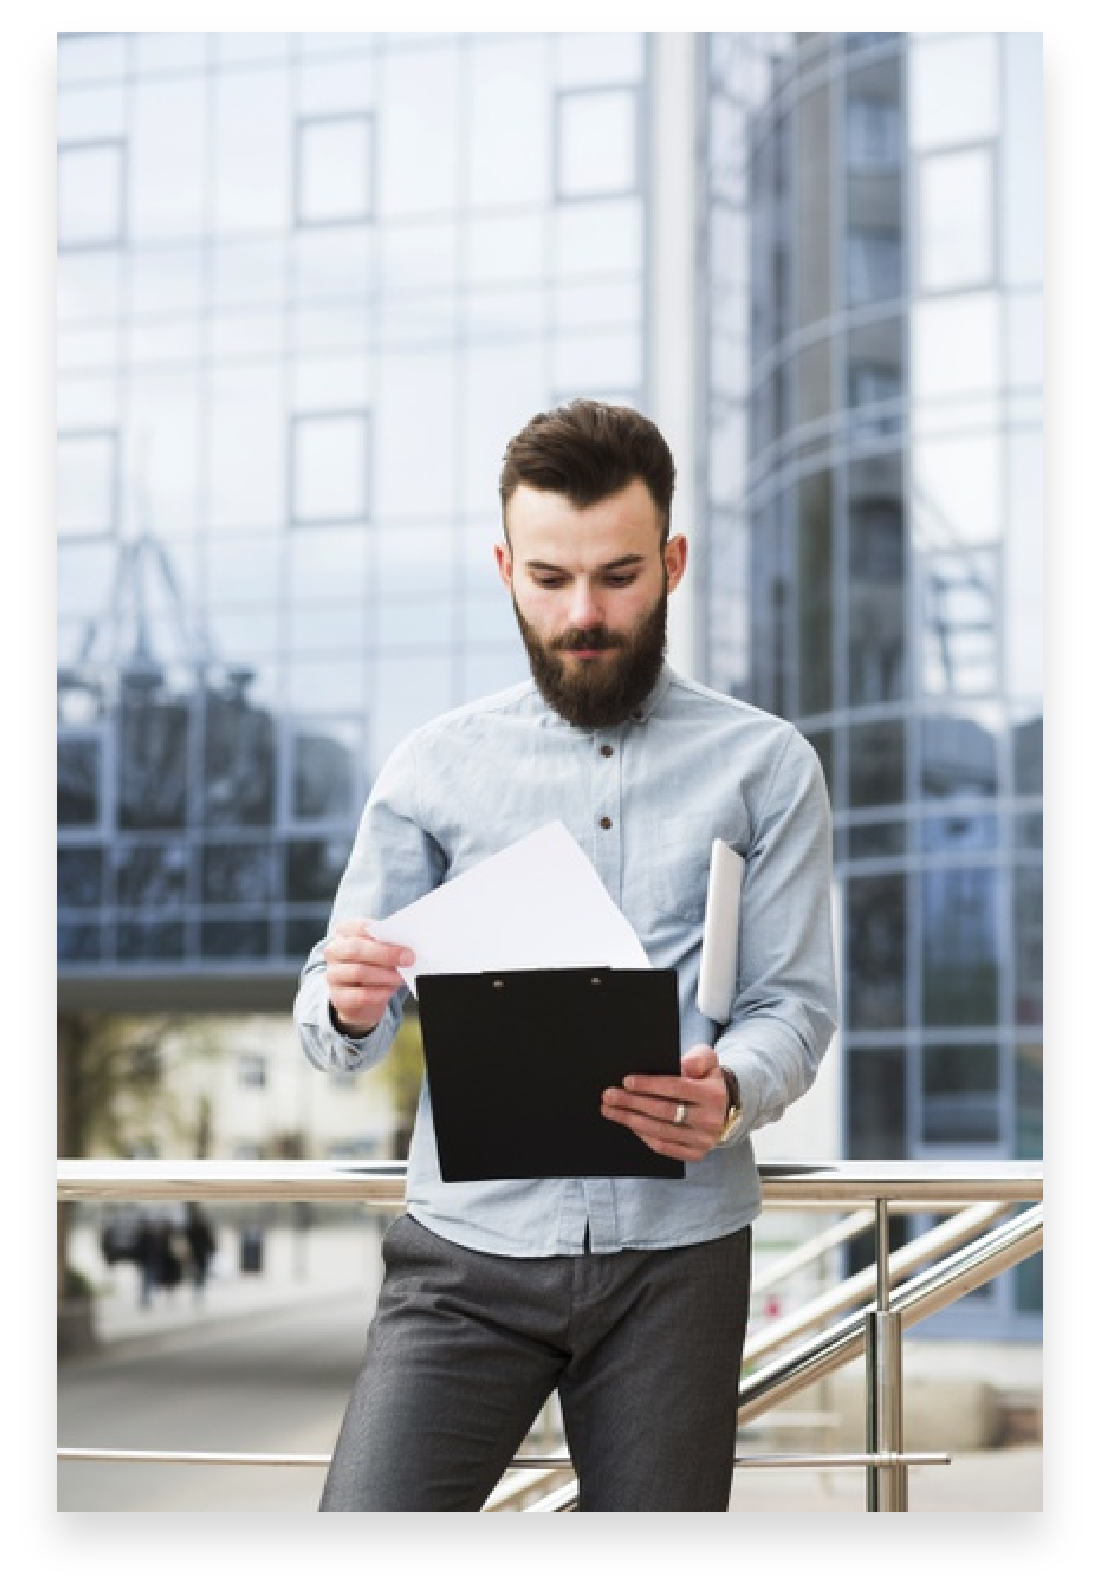
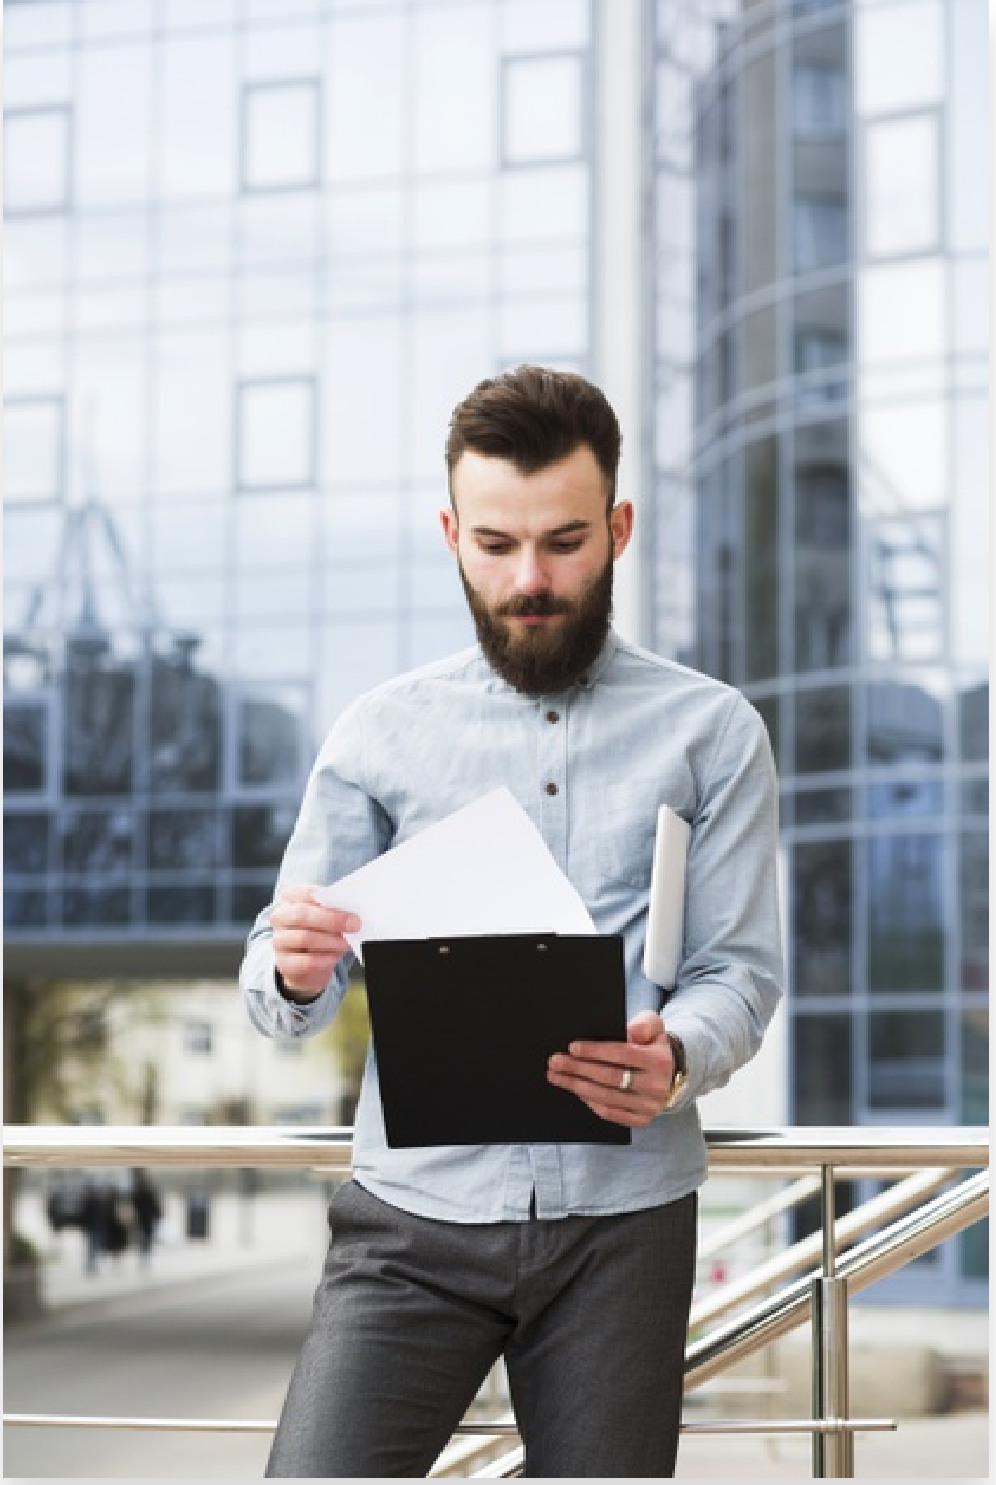
issues with image

diff --git a/src/Sections/Intro.css b/src/Sections/Intro.css
@@ -6,25 +6,30 @@
 
 .intro-col-1{
     display: grid;
-    grid-template-columns: 1fr 2fr;
+    grid-template-columns: 150px 2fr;
+    grid-template-rows: 100px 1fr;
 }
 
 .creative {
-    font-size: 198px;
+    font-size: 130px;
     font-family: Graphie, Georgia, 'Times New Roman', Times, serif;
     font-weight: bolder;
-    letter-spacing: -4.92px;
     color: #502EFF;
     text-shadow: 0px 3px 6px #00000029;
-    opacity: 0.04;
+    opacity: 0.06;
     transform: matrix(0, -1, 1, 0, 0, 0);
     grid-row-start: 2;
+    align-self: end;
+}
+
+.logo-group {
+    grid-column-start: 2;
+    align-self: center;
 }
 
 .logo {
     font: Bold 28px "Nexa";
     color: #000964;
-    grid-column-start: 2;
 }
 .x {
     background: #502EFF 0% 0% no-repeat padding-box;
@@ -34,14 +39,29 @@
 }
 
 .intro-text {
+    display: grid;
+    align-content: center;
     grid-column-start: 2;
     grid-row-start: 2;
 }
 .c-agency {
-    text-align: left;
-    font: 120px "Graphie";
+    font: 7em "Graphie";
     letter-spacing: -2.98px;
     color: #502EFF;
+    line-height: 0.9em;
+    margin: 40px auto;
+}
+
+.intro-text-play {
+    font-family: "Arimo", sans-serif;
+    color: #000964;
+    font-weight: bold;
+}
+
+nav {
+    grid-column-start: 1;
+    grid-row-start: 1;
+    padding-top: 15px;
 }
 
 nav > ul {
@@ -51,16 +71,29 @@ nav > ul {
 
 nav > ul > li {
     list-style-type: none;
-    padding: 20px;
+    padding: 20px 15px;
     display: inline-block;
 }
 
 .intro-img {
-    overflow-y: visible;
-    z-index: -1;
+    grid-column-start: 1;
+    grid-row-start: 1;
+    width: auto;
+    /* overflow-y: hidden;
+    z-index: -1; */
 }
 
 .intro-col-2 {
-    background: transparent url('../assets/Image 1.png') 0% 0% no-repeat padding-box;
+    /* background: transparent url('../assets/Image 1.png') 0% 0% no-repeat padding-box; */
     opacity: 1;
+    font-family: 'Work Sans', sans-serif;
+    color: #502EFF;
+    font-weight: 500;
+    display: grid;
+}
+
+.spacer {
+    background-color: var(--blue);
+    height: 120px;
+    grid-column: 1/-1;
 }

diff --git a/src/Sections/Intro.js b/src/Sections/Intro.js
@@ -1,24 +1,26 @@
 import React from 'react';
 import './Intro.css';
 import Button from '../Components/Button';
-// import Man from '../assets/Image 1.png';
+import Man from '../assets/Image 1.png';
 
 function Intro() {
   return (
     <section className="intro">
         <div className="intro-col-1">
           <p className='creative'>creative</p>
-          <p><span className='logo'>agency</span><span className='x'>x</span></p>
+          <p className="logo-group"><span className='logo'>agency</span><span className='x'>x</span></p>
           
           <div className="intro-text">
-            <h1 className="c-agency">Creative Agency</h1>
-            <p>play button watch a video intro</p>
+            <h1 className="c-agency">creative agency</h1>
+            <p className="intro-text-play">OOOO &nbsp; watch a video intro</p>
           </div>
+
+          <div className="spacer"></div>
           
         </div>
 
         <div className='intro-col-2'>
-          {/* <img className='intro-img' src={Man} alt='man'/> */}
+          <img className='intro-img' src={Man} alt='man' width="700px" height="911px"/>
           <nav>
             <ul>
               <li>Home</li>

diff --git a/public/index.html b/public/index.html
@@ -4,7 +4,8 @@
     <meta charset="utf-8" />
     <link href="https://fonts.googleapis.com/css?family=Poppins&display=swap" rel="stylesheet"> 
     <link href="https://fonts.googleapis.com/css2?family=Roboto&display=swap" rel="stylesheet">
-    <link href="https://fonts.googleapis.com/css2?family=Work+Sans&display=swap" rel="stylesheet"> 
+    <link href="https://fonts.googleapis.com/css2?family=Work+Sans&display=swap" rel="stylesheet">
+    <link href="https://fonts.googleapis.com/css2?family=Arimo&display=swap" rel="stylesheet"> 
     <link rel="icon" href="%PUBLIC_URL%/favicon.ico" />
     <meta name="viewport" content="width=device-width, initial-scale=1" />
     <meta name="theme-color" content="#000000" />

diff --git a/src/Components/Team.js b/src/Components/Team.js
@@ -5,7 +5,7 @@ import './team.css';
 function Team(props) {
   return (
     <section className="team">
-        <img src={props.img} alt={props.name} height="350" width="250" />
+        <img className="team-img" src={props.img} alt={props.name} height="350" width="250" />
         <p className="team-name">{props.name}</p>
         <p className="team-title">{props.title}</p>
         <ul>

diff --git a/src/Sections/Portfolio.css b/src/Sections/Portfolio.css
@@ -1,13 +1,13 @@
 .portfolio {
     background-color: var(--blue);
-    padding: 10em 15em;
+    padding: 10em 17%;
     color: #FFFFFF;
 }
 
 .service-list {
     display: grid;
-    grid-template-columns: repeat(3, minmax(150px, 1fr));
-    grid-gap: 10%;
+    grid-template-columns: repeat(auto-fit, minmax(200px, 1fr));
+    grid-gap: 6%;
     margin-top: 50px;
 }
 

diff --git a/src/Sections/Meet.css b/src/Sections/Meet.css
@@ -5,7 +5,7 @@
 
 .team-list {
     display: grid;
-    grid-template-columns: repeat(3, minmax(150px, 1fr));
+    grid-template-columns: repeat(auto-fit, minmax(150px, 1fr));
     grid-gap: 20px;
     padding-bottom: 60px;
 }
